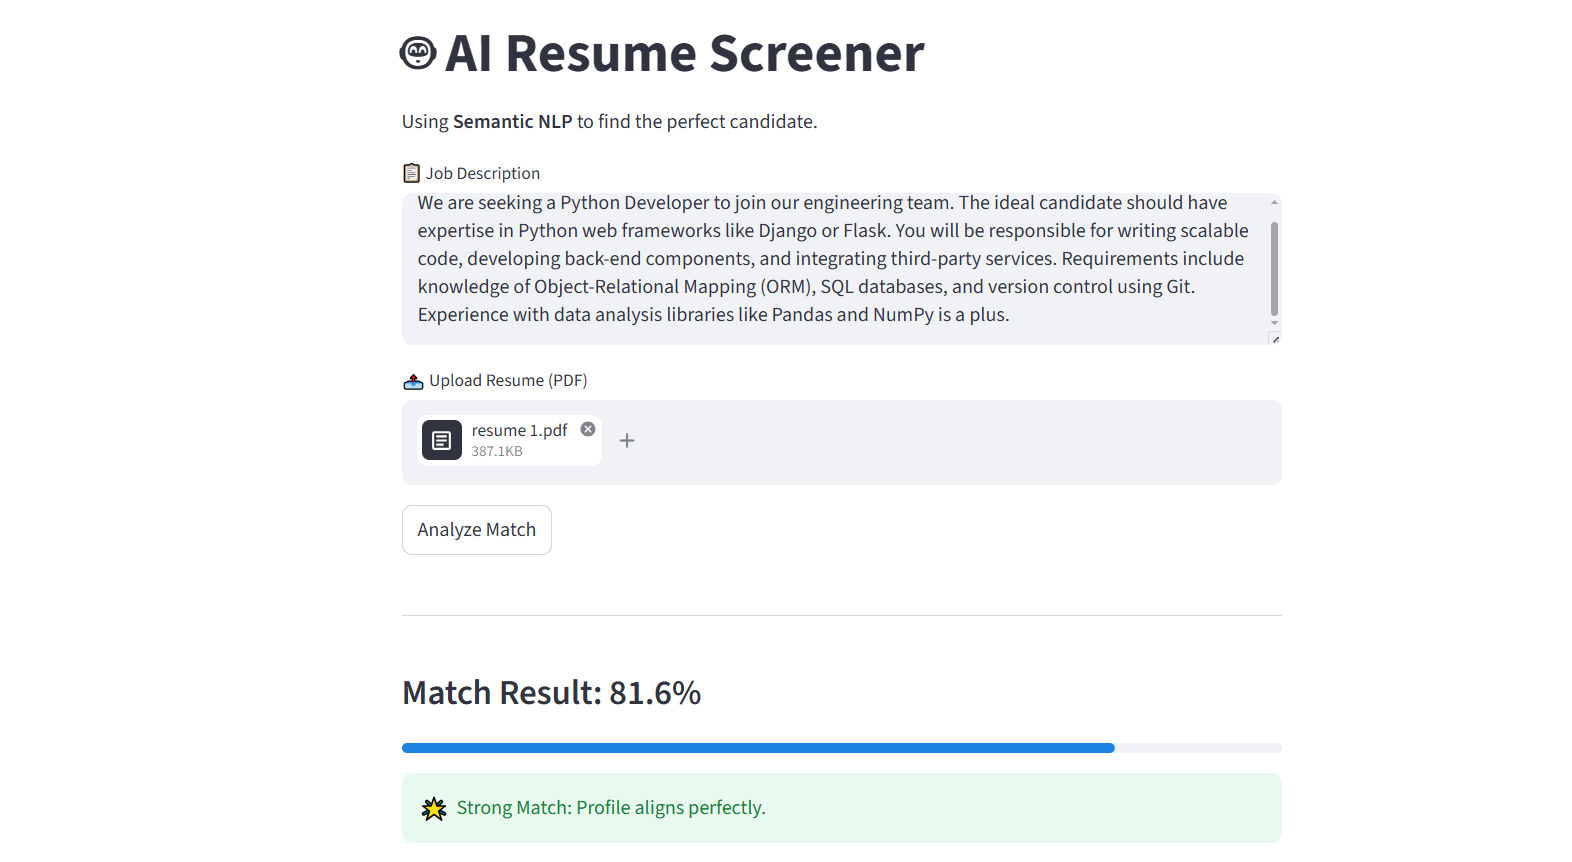
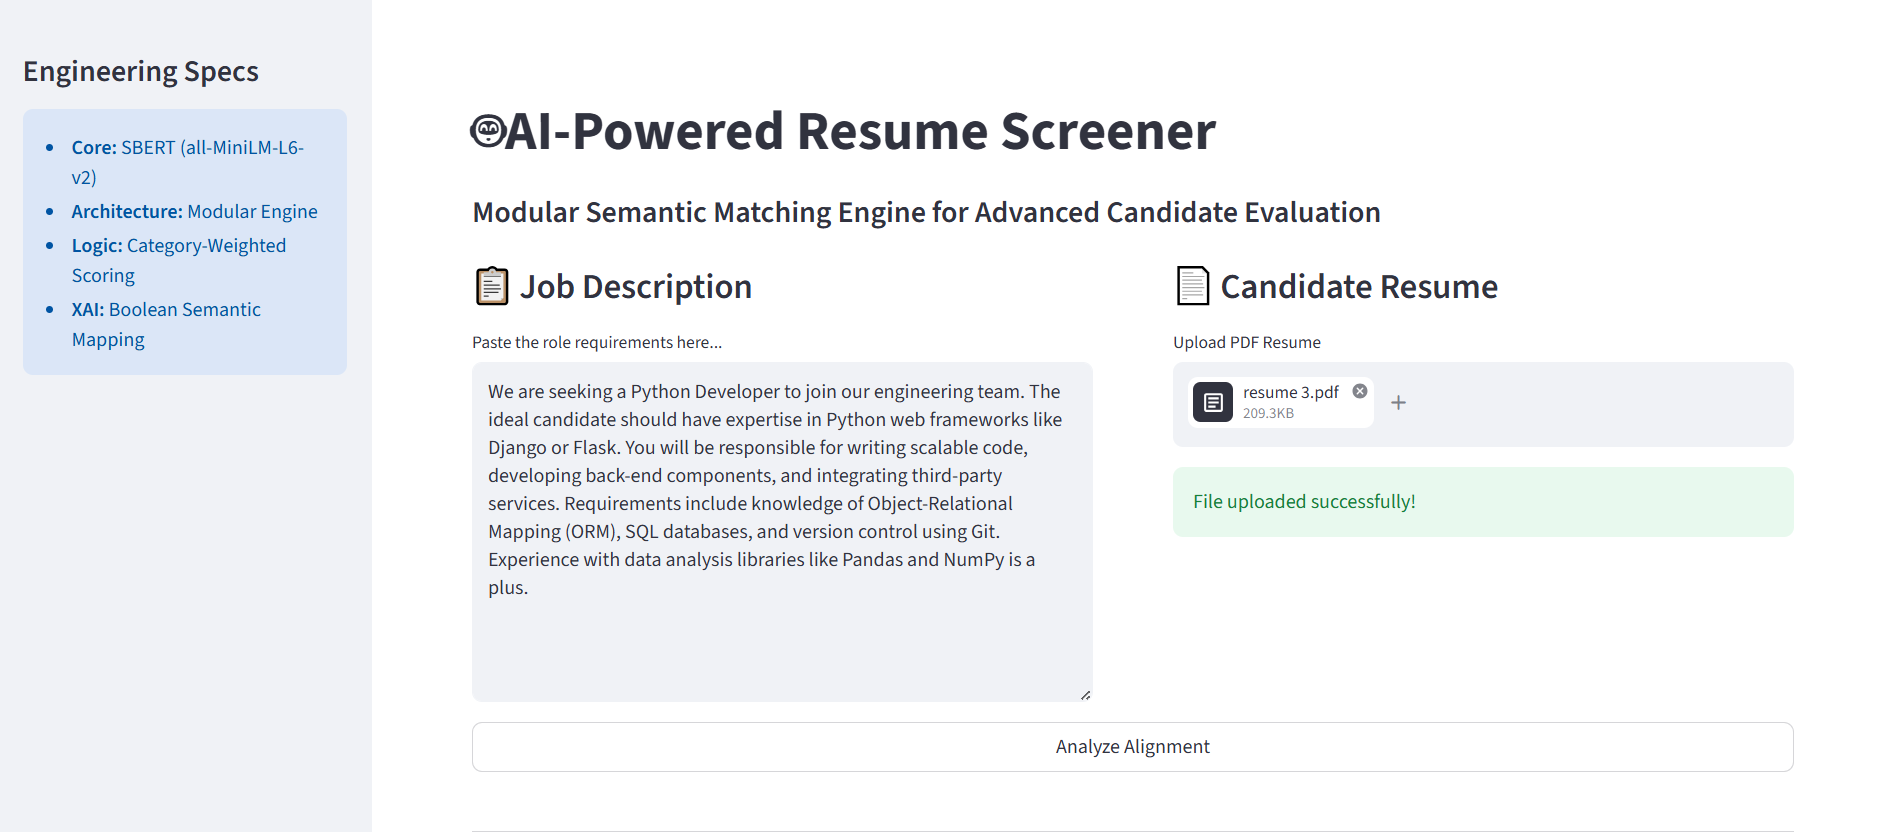
Improved app.py and readme.md

diff --git a/app.py b/app.py
@@ -47,7 +47,7 @@ if st.button("Analyze Alignment", use_container_width=True):
             text = engine.extract_text(resume_file)
             if text:
                 results = engine.calculate_match(job_input, text)
-                keywords = engine.get_keywords(job_input, text)
+                keywords = engine.get_semantic_insights(job_input, text)
                 
                 st.divider()
                 

diff --git a/README.md b/README.md
@@ -2,7 +2,9 @@
 **An intelligent recruitment tool that uses Natural Language Processing (NLP) to understand the semantic meaning of resumes.**
 
 ![Application Preview](assets/Screenshot.png)
-![Application Preview](assets/Screenshot..png)
+![Application Preview](assets/Screenshot2.png)
+![Application Preview](assets/Screenshot3.png)
+
 
 ## Project Overview
 Traditional Resume Screeners (ATS) often fail because they only look for exact keyword matches. This project uses **Machine Learning** to perform **Semantic Analysis**, allowing the system to understand that different words can have the same meaning (e.g., "Web Development" and "Frontend Engineering").
